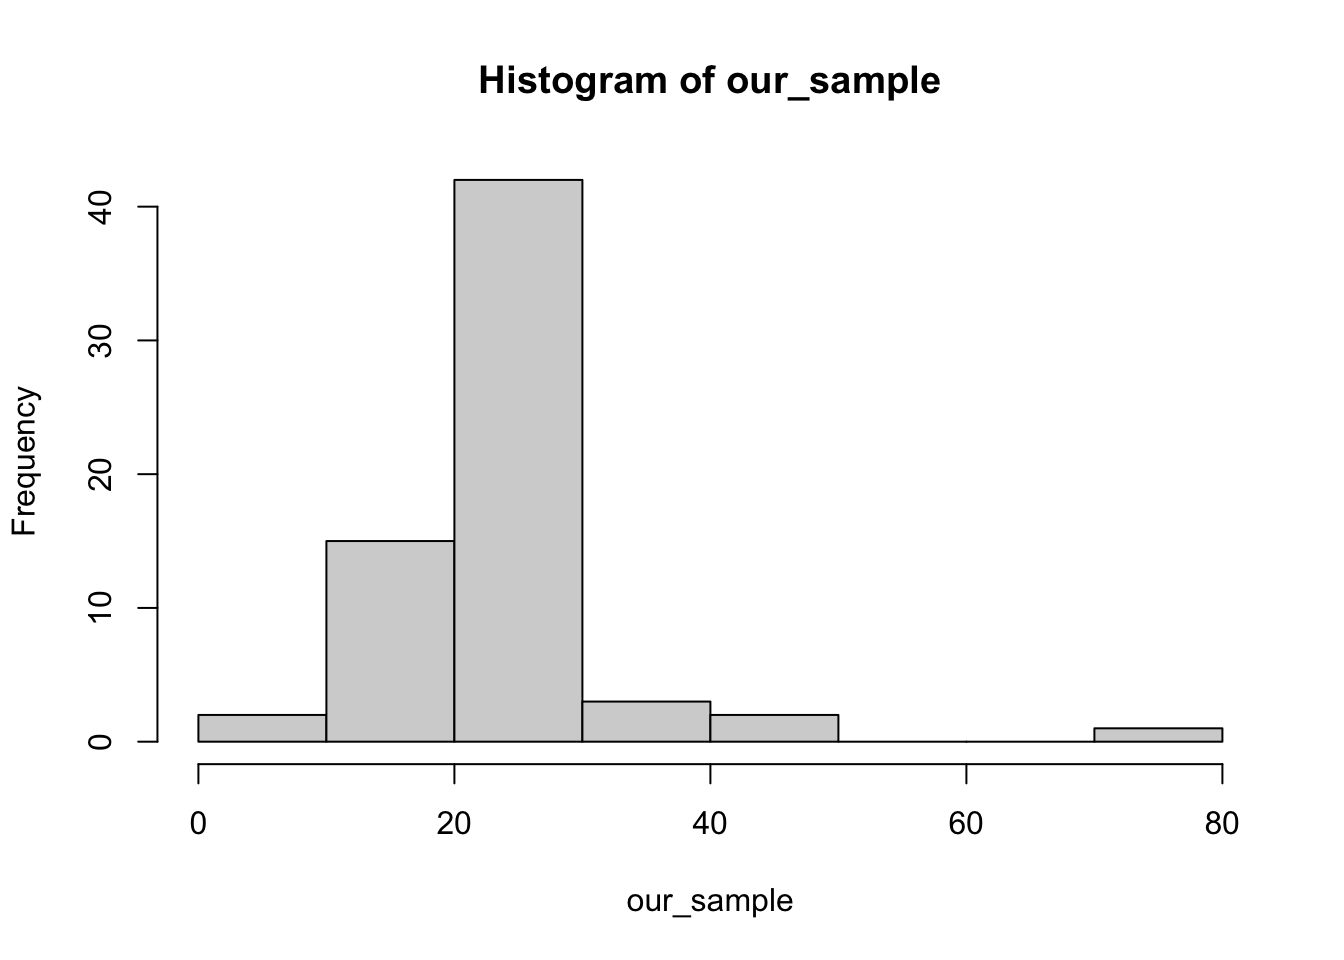
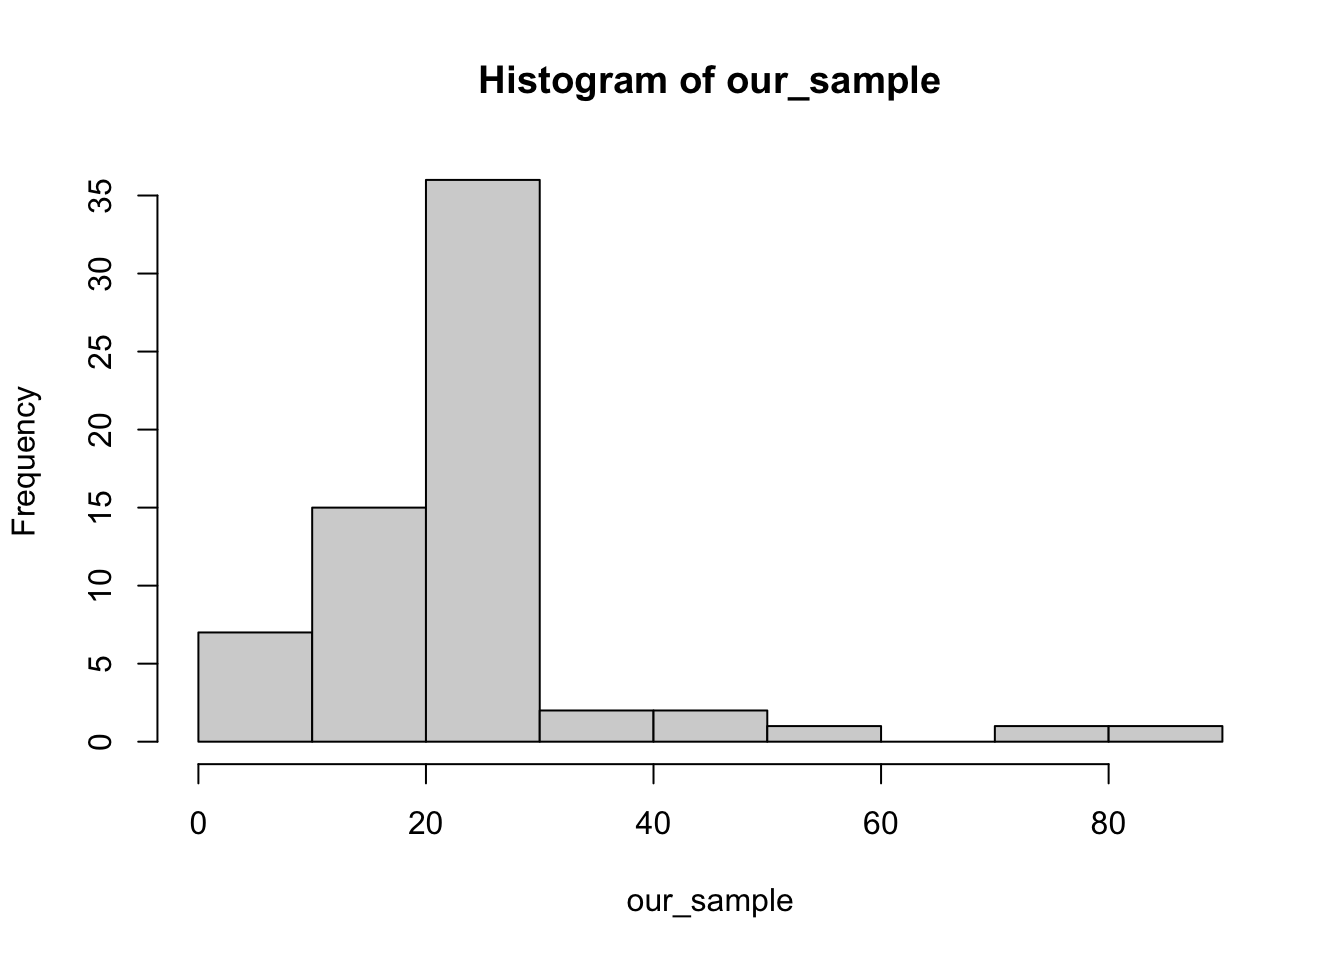
Bayesian reliability

diff --git a/content/professional/Nonparametric Tolerance Intervals.html b/content/professional/Nonparametric Tolerance Intervals.html
@@ -2,8 +2,8 @@
 title: "Nonparametric Tolerance Intervals - Part I"
 author: "Bryant Chen"
 date: 2022-01-02
-categories: ["Mathematical Statistics"]
-tags: ["Simulation", "Nonparametric", "Tolerance"]
+categories: ["Blog"]
+tags: ["Simulation", "Nonparametric", "Tolerance","Mathematical Statistics","Order Statistics"]
 description: A method for constructing a nonparametric tolerance interval.
 output:
   pdf_document: default
@@ -14,11 +14,15 @@ output:
 
 
 <p><strong>Introduction</strong></p>
-<p>This first post is going to be about a method of constructing Nonparametric Tolerance Intervals with a focus on it’s derivation, simulation and application to real data. In particular, Wilk’s method for determining the limits based on order statistics, is covered here.</p>
-<p>First, what is a tolerance interval? A tolerance interval is different from the familiar confidence interval and even a prediction interval in that a tolerance interval</p>
+<p>This piece is going to be about a method of constructing Nonparametric Tolerance Intervals with a focus on it’s derivation, simulation and application to real data. In particular, Wilk’s method for determining the limits based on order statistics, is covered here.</p>
+<p>First, what is a tolerance interval? A tolerance interval is different from the familiar confidence interval and even a prediction interval in that a tolerance interval provides limits in which at least a certain proportion of the sampled population falls within with a specified level of confidence. Whereas confidence and prediction intervals are meant to bound a population parameter and a future sampled value, respectively, tolerance intervals bounds a range of values that make up a certain proportion of the population. Tolerance intervals are lesser known compared to the other two</p>
+<p>rather than
+parameter</p>
+<p>value</p>
 <p>It is assumed that the reader is familiar with mathematical statistics when it comes to the derivation section.</p>
 <p>devise one-sided tolerance limits
-, similar to confidence limits</p>
+, similar to confidence limits
+upper or lower</p>
 <p>In other words,</p>
 <p><strong>Derivation</strong></p>
 <p>Suppose we have a sequence of random variables that follow some probability distribution -</p>
@@ -65,10 +69,10 @@ hist(our_sample)
 
 tolerance::nptol.int(our_sample,alpha = .10,P = .90,side = 2,method = &quot;WILKS&quot;)</code></pre>
 <pre><code>##   alpha   P 2-sided.lower 2-sided.upper
-## 1   0.1 0.9      6.804904      43.13753</code></pre>
+## 1   0.1 0.9      6.708026      70.83719</code></pre>
 <pre class="r"><code>tolerance::normtol.int(our_sample, alpha = .10,P = .10,side = 2,method = &quot;HE&quot;)</code></pre>
 <pre><code>##   alpha   P    x.bar 2-sided.lower 2-sided.upper
-## 1   0.1 0.1 24.02395      22.64489      25.40302</code></pre>
+## 1   0.1 0.1 23.96237      22.14617      25.77857</code></pre>
 <pre class="r"><code>n = 1000 # of iterations
 intervals = matrix(data = NA, nrow = n, ncol = 3)
 bad_intervals = matrix(data = NA, nrow = n, ncol = 3) # showing what happens if you assume the wrong distribution
@@ -96,9 +100,9 @@ for (i in 1:n){
 
 #intervals
 sum(results)/n # confidence level</code></pre>
-<pre><code>## [1] 0.978</code></pre>
+<pre><code>## [1] 0.968</code></pre>
 <pre class="r"><code>sum(bad_results)/n # confidence level</code></pre>
-<pre><code>## [1] 0.594</code></pre>
+<pre><code>## [1] 0.599</code></pre>
 <pre class="r"><code># Number of samples vs. confidence lvl vs. population coverage
 
 ss = c(seq(40,120,by = 10))

diff --git a/content/professional/Bayesian Reliability Analysis.html b/content/professional/Bayesian Reliability Analysis.html
@@ -1,0 +1,35 @@
+---
+title: "Bayesian Reliability Analysis"
+author: "Bryant Chen"
+date: 2022-01-02
+categories: ["Blog"]
+tags: ["Simulation", "Bayesian", "Reliability","Mathematical Statistics","MCMC"]
+description: Estimating reliability of a serially configured system under a Bayesian analysis.
+output:
+  pdf_document: default
+  html_document: default
+---
+
+<script src="Bayesian Reliability Analysis_files/header-attrs/header-attrs.js"></script>
+
+
+<p><span class="math display">\[f(\pi|x) = \frac{f(x|\pi)f(\pi)}{f(x)} \propto f(x|\pi)f(\pi)\]</span>
+<span class="math display">\[X \sim Bin(n,\pi) \rightarrow f(x|\pi) \sim Bin(x;n,\pi)\]</span>
+<span class="math display">\[\pi \sim Beta(a,b) \rightarrow f(\pi) = Beta(\pi;a,b)\]</span>
+<span class="math display">\[f(\pi|x) \propto f(x|\pi)f(\pi) \rightarrow f(\pi|x) \propto Bin(x;n,\pi)\cdot Beta(\pi;a,b)\]</span>
+<span class="math display">\[\rightarrow f(\pi|x) \propto {n \choose x} \frac{1}{B(a,b)}n^{x+a-1}(1-\pi)^{n-x+b-1}\]</span>
+For a series system -</p>
+<p><span class="math display">\[\pi_s \sim \prod_{c=1}^k \pi_c; \quad \pi_c \sim Beta(a_c,b_c)\]</span> where <span class="math inline">\(s\)</span> and <span class="math inline">\(c\)</span> denote system and component, respectively.</p>
+<p><span class="math display">\[\hat{\pi_c} = \frac{n_c - x_c}{n_c}\]</span>
+Biasedness of this estimator -</p>
+<p><span class="math display">\[E[\hat{\pi_c}] = \frac{n_c - x_c}{n_c} = \frac{E[n_c] - E[x_c]}{n_c} = \frac{n_c}{n_c} - \frac{n_c - x}{(n_c + 1)n_c} = \frac{n^2_c(n_c + 1) - n_c(n_c - x)}{n^2_c(n_c + 1)}\]</span>
+<span class="math display">\[= \frac{n^3_c + n^2_c - n^2_c + n_cx_c}{n^2_c(n_c + 1)} = \frac{n^3_c + n_cx_c}{n^2_c(n_c + 1)} = \frac{n_c(n^2_c + x_c)}{n_c(n^2_c + n_c)} = \frac{n^2_c + x_c}{n^2_c + n_c}\]</span></p>
+<p>When <span class="math inline">\(x = 0\)</span> or zero failures occur -</p>
+<p><span class="math display">\[\pi_c \sim Beta(\pi,1)\]</span>
+<span class="math display">\[a = n; \quad b = 1\]</span>
+<span class="math display">\[\mu = \frac{a}{a + b} = \frac{n}{n+1}; \quad \sigma^2 = \frac{ab}{(a+b)^2(a+b+1)} = \frac{n}{(n+1)^2(n+2)}\]</span>
+Note:</p>
+<p><span class="math display">\[Beta(n,1) \rightarrow f(\pi) = \frac{\Gamma(a+b)}{\Gamma(a)\Gamma(b)}\pi^{a-1}(1-\pi)^{b-1} \rightarrow f(\pi) = \frac{\Gamma(n+1)}{\Gamma(n)\Gamma(1)}\pi^{n-1}(1-\pi)^0 = n\pi^{n-1}\]</span></p>
+<p>When <span class="math inline">\(x &gt; 0\)</span> or at least one failure occurs -</p>
+<p><span class="math display">\[\pi_c \sim Beta(n_c,1)\]</span>
+<span class="math display">\[a = n; \quad b = 1\]</span></p>

diff --git a/static/professional/Bayesian Reliability Analysis_files/header-attrs/header-attrs.js b/static/professional/Bayesian Reliability Analysis_files/header-attrs/header-attrs.js
@@ -1,0 +1,12 @@
+// Pandoc 2.9 adds attributes on both header and div. We remove the former (to
+// be compatible with the behavior of Pandoc < 2.8).
+document.addEventListener('DOMContentLoaded', function(e) {
+  var hs = document.querySelectorAll("div.section[class*='level'] > :first-child");
+  var i, h, a;
+  for (i = 0; i < hs.length; i++) {
+    h = hs[i];
+    if (!/^h[1-6]$/i.test(h.tagName)) continue;  // it should be a header h1-h6
+    a = h.attributes;
+    while (a.length > 0) h.removeAttribute(a[0].name);
+  }
+});
